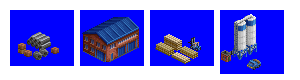
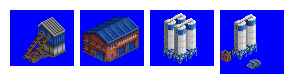
Change: WIP on Steeltown industry sprites

Changed region(s): [[0.51, 0.15, 0.69, 0.8], [0.06, 0.2, 0.24, 0.8]]

diff --git a/src/industries/concrete_plant.py b/src/industries/concrete_plant.py
@@ -83,26 +83,26 @@ industry.add_spritelayout(
 industry.add_industry_layout(
     id="concrete_plant_industry_layout_1",
     layout=[
-        (0, 0, "concrete_plant_spritelayout_3"),
-        (0, 1, "concrete_plant_spritelayout_4"),
-        (1, 0, "concrete_plant_spritelayout_2"),
-        (1, 1, "concrete_plant_spritelayout_1"),
-        (2, 0, "concrete_plant_spritelayout_3"),
-        (2, 1, "concrete_plant_spritelayout_4"),
+        (0, 0, "concrete_plant_spritelayout_4"),
+        (0, 1, "concrete_plant_spritelayout_1"),
+        (1, 0, "concrete_plant_spritelayout_3"),
+        (1, 1, "concrete_plant_spritelayout_2"),
+        (2, 0, "concrete_plant_spritelayout_1"),
+        (2, 1, "concrete_plant_spritelayout_3"),
         (3, 0, "concrete_plant_spritelayout_2"),
-        (3, 1, "concrete_plant_spritelayout_1"),
+        (3, 1, "concrete_plant_spritelayout_4"),
     ],
 )
 industry.add_industry_layout(
     id="concrete_plant_industry_layout_2",
     layout=[
-        (0, 0, "concrete_plant_spritelayout_2"),
+        (0, 0, "concrete_plant_spritelayout_1"),
         (0, 1, "concrete_plant_spritelayout_3"),
-        (0, 2, "concrete_plant_spritelayout_2"),
-        (0, 3, "concrete_plant_spritelayout_3"),
-        (1, 0, "concrete_plant_spritelayout_4"),
-        (1, 1, "concrete_plant_spritelayout_1"),
-        (1, 2, "concrete_plant_spritelayout_4"),
-        (1, 3, "concrete_plant_spritelayout_1"),
+        (0, 2, "concrete_plant_spritelayout_1"),
+        (0, 3, "concrete_plant_spritelayout_4"),
+        (1, 0, "concrete_plant_spritelayout_2"),
+        (1, 1, "concrete_plant_spritelayout_4"),
+        (1, 2, "concrete_plant_spritelayout_2"),
+        (1, 3, "concrete_plant_spritelayout_3"),
     ],
 )
